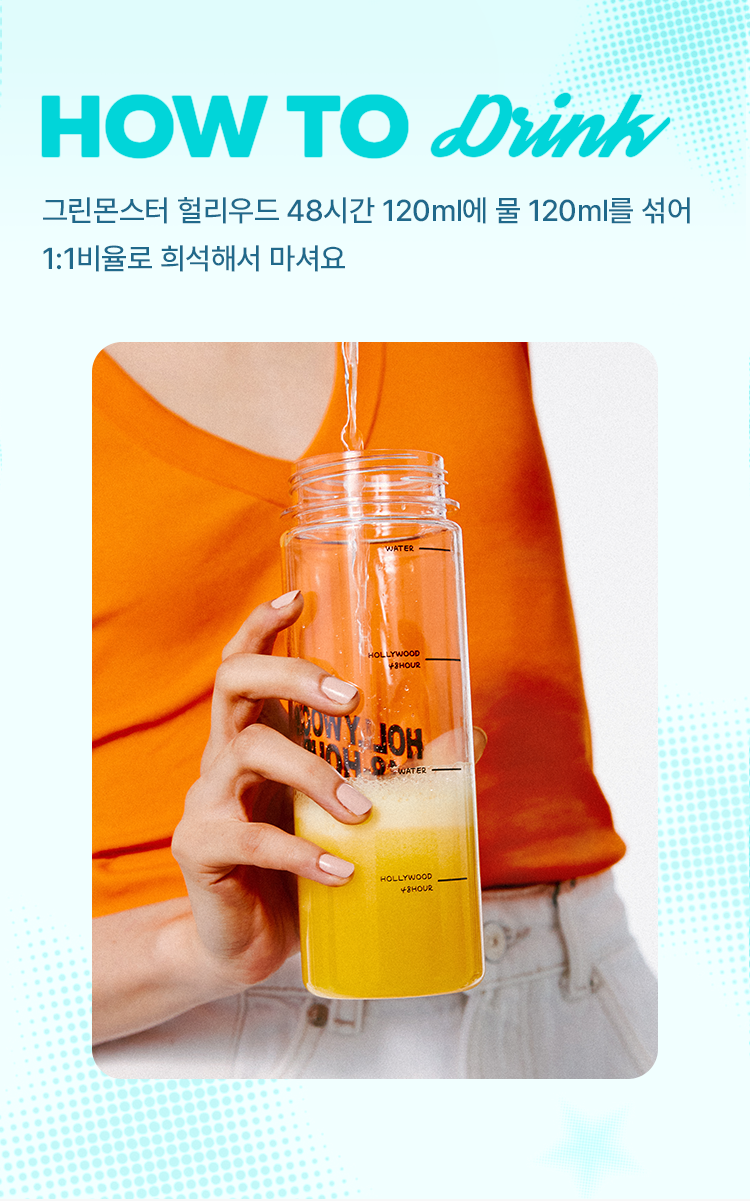
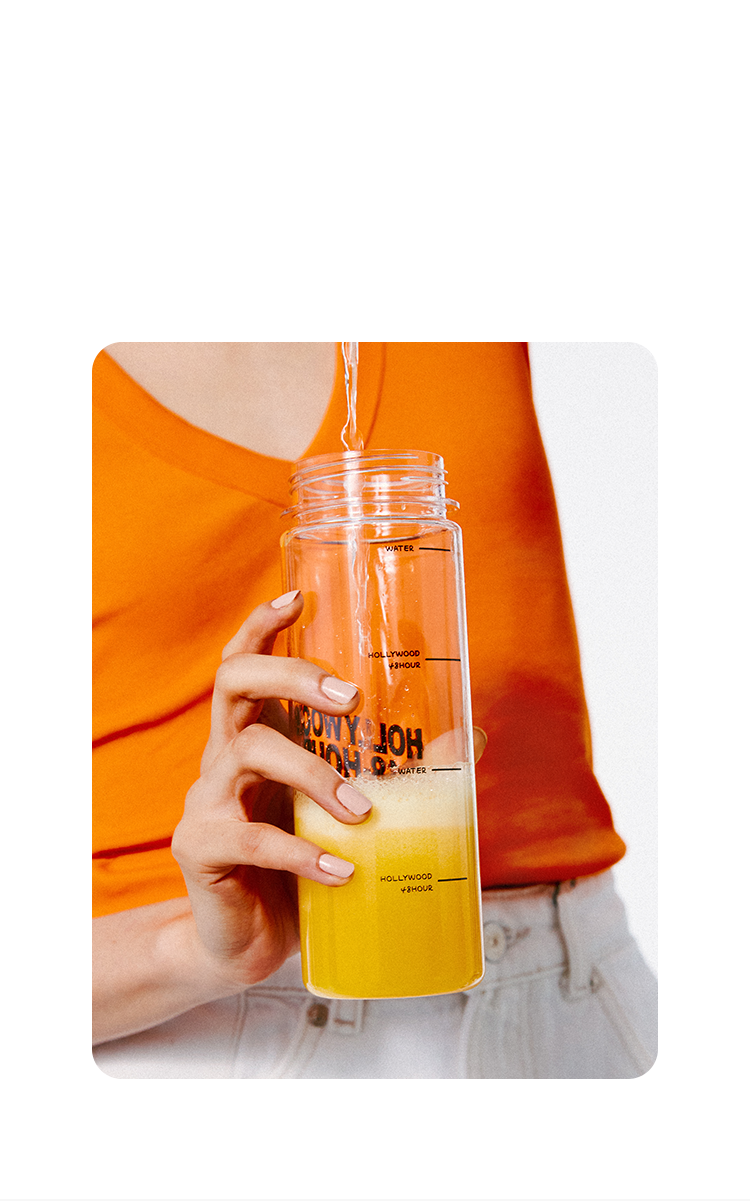
mo_17: restore base bg + rise-fade with delay; mo_18: precise glass/badge positions+sizes matching original overlap; mo_19: revert to exact original crop; blur-scrub actually wired up and reaches sharp quickly

diff --git a/index.html b/index.html
@@ -30,7 +30,7 @@
   <img class="hero-panel" src="assets2/hero-panel.png" alt="GREEN MONSTER · HOLLYWOOD 48-HOUR" />
 
   <!-- 03 Summer Essential -->
-  <img src="assets2/r03.jpg" alt="" />
+  <img class="blur-scrub" src="assets2/r03.jpg" alt="" />
   <!-- 04 Benefit -->
   <img src="assets2/r04.jpg" alt="" />
   <!-- 05 Chapter 01 title -->
@@ -94,34 +94,35 @@
   <!-- 16 가격 -->
   <img src="assets2/r16.jpg" alt="" />
 
-  <!-- 17 페이드인아웃 (How to Drink) -->
-  <div class="fade2">
-    <img src="assets2/r17-a.jpg" alt="" />
-    <img src="assets2/r17-b.png" alt="" />
+  <!-- 17 기본 배경 위에 스크롤 시 아래→위로 등장 후 페이드인아웃 (How to Drink) -->
+  <div class="rise-fade">
+    <img class="rf-base" src="assets2/r17-base.jpg" alt="" />
+    <img class="rf-a" src="assets2/r17-a.png" alt="" />
+    <img class="rf-b" src="assets2/r17-b.png" alt="" />
   </div>
 
   <!-- 18 Light/Basic 스케줄 : 주스 아이콘 12개가 순서대로 하나씩 나타남(무한반복) -->
   <div class="glass-wrap">
     <img src="assets2/r18.jpg" alt="" />
-    <img class="glass-icon glass-icon-0" style="left:15.53%;top:36.66%;width:6.53%;" src="assets2/glass.png" alt="" />
-    <img class="glass-icon glass-icon-1" style="left:33.4%;top:36.66%;width:6.53%;" src="assets2/glass.png" alt="" />
-    <img class="glass-icon glass-icon-2" style="left:51.13%;top:36.66%;width:6.53%;" src="assets2/glass.png" alt="" />
-    <img class="glass-icon glass-icon-3" style="left:69%;top:36.66%;width:6.53%;" src="assets2/glass.png" alt="" />
-    <img class="glass-icon glass-icon-4" style="left:15.53%;top:72.51%;width:6.53%;" src="assets2/glass.png" alt="" />
-    <img class="glass-icon glass-icon-5" style="left:33.4%;top:72.51%;width:6.53%;" src="assets2/glass.png" alt="" />
-    <img class="glass-icon glass-icon-6" style="left:51.13%;top:72.51%;width:6.53%;" src="assets2/glass.png" alt="" />
-    <img class="glass-icon glass-icon-7" style="left:69%;top:72.51%;width:6.53%;" src="assets2/glass.png" alt="" />
-    <img class="glass-icon glass-icon-8" style="left:15.53%;top:82.56%;width:6.53%;" src="assets2/glass.png" alt="" />
-    <img class="glass-icon glass-icon-9" style="left:33.4%;top:82.56%;width:6.53%;" src="assets2/glass.png" alt="" />
-    <img class="glass-icon glass-icon-10" style="left:51.13%;top:82.56%;width:6.53%;" src="assets2/glass.png" alt="" />
-    <img class="glass-icon glass-icon-11" style="left:69%;top:82.56%;width:6.53%;" src="assets2/glass.png" alt="" />
-    <img class="day-badge" style="left:76.4%;top:36.98%;width:12.27%;" src="assets2/badge-day1.png" alt="1일차" />
-    <img class="day-badge" style="left:76.4%;top:72.91%;width:12.27%;" src="assets2/badge-day1.png" alt="1일차" />
-    <img class="day-badge" style="left:76.4%;top:83.12%;width:12.27%;" src="assets2/badge-day2.png" alt="2일차" />
+    <img class="glass-icon glass-icon-0" style="left:15.333%;top:36.254%;width:6.933%;" src="assets2/glass.png" alt="" />
+    <img class="glass-icon glass-icon-1" style="left:33.2%;top:36.254%;width:6.933%;" src="assets2/glass.png" alt="" />
+    <img class="glass-icon glass-icon-2" style="left:50.933%;top:36.254%;width:6.933%;" src="assets2/glass.png" alt="" />
+    <img class="glass-icon glass-icon-3" style="left:68.8%;top:36.254%;width:6.933%;" src="assets2/glass.png" alt="" />
+    <img class="glass-icon glass-icon-4" style="left:15.333%;top:72.106%;width:6.933%;" src="assets2/glass.png" alt="" />
+    <img class="glass-icon glass-icon-5" style="left:33.2%;top:72.106%;width:6.933%;" src="assets2/glass.png" alt="" />
+    <img class="glass-icon glass-icon-6" style="left:50.933%;top:72.106%;width:6.933%;" src="assets2/glass.png" alt="" />
+    <img class="glass-icon glass-icon-7" style="left:68.8%;top:72.106%;width:6.933%;" src="assets2/glass.png" alt="" />
+    <img class="glass-icon glass-icon-8" style="left:15.333%;top:82.154%;width:6.933%;" src="assets2/glass.png" alt="" />
+    <img class="glass-icon glass-icon-9" style="left:33.2%;top:82.154%;width:6.933%;" src="assets2/glass.png" alt="" />
+    <img class="glass-icon glass-icon-10" style="left:50.933%;top:82.154%;width:6.933%;" src="assets2/glass.png" alt="" />
+    <img class="glass-icon glass-icon-11" style="left:68.8%;top:82.154%;width:6.933%;" src="assets2/glass.png" alt="" />
+    <img class="day-badge" style="left:73.067%;top:36.897%;width:16.667%;" src="assets2/badge-day1.png" alt="1일차" />
+    <img class="day-badge" style="left:73.067%;top:72.829%;width:16.667%;" src="assets2/badge-day1.png" alt="1일차" />
+    <img class="day-badge" style="left:73.067%;top:83.039%;width:16.667%;" src="assets2/badge-day2.png" alt="2일차" />
   </div>
 
-  <!-- 19 붓는 사진 : 스크롤하면 줌인 -->
-  <div class="scrub-zoom">
+  <!-- 19 붓는 사진 : 스크롤하면 줌인 + 블러→선명 -->
+  <div class="scrub-zoom blur-scrub">
     <img src="assets2/r19.jpg" alt="" />
   </div>
 

diff --git a/js/reveal.js b/js/reveal.js
@@ -1,7 +1,7 @@
-/* 스크롤 등장 모션(.reveal-txt): 뷰에 들어오면 .is-in 추가, 한 번만 재생 */
+/* 스크롤 등장 모션(.reveal-txt, .rise-fade): 뷰에 들어오면 .is-in 추가, 한 번만 재생 */
 (function () {
   var reduce = window.matchMedia && window.matchMedia('(prefers-reduced-motion: reduce)').matches;
-  var items = document.querySelectorAll('.reveal-txt');
+  var items = document.querySelectorAll('.reveal-txt, .rise-fade');
   if (!items.length) return;
 
   if (reduce || !('IntersectionObserver' in window)) {
@@ -12,8 +12,10 @@
   var io = new IntersectionObserver(function (entries) {
     entries.forEach(function (entry) {
       if (!entry.isIntersecting) return;
-      entry.target.classList.add('is-in');
-      io.unobserve(entry.target);
+      var el = entry.target;
+      var delay = el.classList.contains('rise-fade') ? 350 : 0;
+      setTimeout(function () { el.classList.add('is-in'); }, delay);
+      io.unobserve(el);
     });
   }, { threshold: 0.4, rootMargin: '0px 0px -10% 0px' });
 
@@ -31,7 +33,10 @@
   var slides = [].slice.call(document.querySelectorAll('.scrub-slide')).map(function (el) {
     return { el: el, track: el.querySelector('.scrub-slide__track') };
   });
-  if (!zooms.length && !slides.length) return;
+  var blurs = [].slice.call(document.querySelectorAll('.blur-scrub')).map(function (el) {
+    return { el: el };
+  });
+  if (!zooms.length && !slides.length && !blurs.length) return;
 
   function progressOf(el, totalOverride) {
     var rect = el.getBoundingClientRect();
@@ -42,21 +47,10 @@
   }
 
   var ZOOM_FROM = 1, ZOOM_TO = 1.22;
+  var MAX_BLUR = 18;
 
-  /* 20번: 이미지가 화면 정중앙에 오기 전까지는 0, 정중앙을 지나는 시점부터
-     자기 높이(SLIDE_DIST_RATIO 배)만큼 더 스크롤하는 동안 스와이프 진행 */
-  var SLIDE_DIST_RATIO = 0.6;
-
-  function slideProgress(el) {
-    var rect = el.getBoundingClientRect();
-    var vh = window.innerHeight;
-    var elCenter = rect.top + rect.height / 2;
-    var viewCenter = vh / 2;
-    var dist = rect.height * SLIDE_DIST_RATIO;
-    var p = (viewCenter - elCenter) / dist;
-    return Math.max(0, Math.min(1, p));
-  }
-
+  /* 20번: 화면에 보이기 시작(하단 진입)할 때 시작점(0%), 화면을 다 빠져나갈 때(상단 이탈) 끝점(100%)
+     — 보이는 동안 내내 천천히 진행되고, 시작/끝이 항상 화면 안에서 일어남 */
   function update() {
     zooms.forEach(function (z) {
       var p = progressOf(z.el);
@@ -64,8 +58,13 @@
       z.img.style.transform = 'scale(' + scale.toFixed(4) + ')';
     });
     slides.forEach(function (s) {
-      var p = slideProgress(s.el);
+      var p = progressOf(s.el);
       s.track.style.transform = 'translateX(' + (-50 * p).toFixed(2) + '%)';
+    });
+    blurs.forEach(function (b) {
+      var raw = progressOf(b.el);
+      var p = Math.min(1, raw / 0.35); // 화면에 들어오고 나서 얼마 안 가 바로 또렷해짐
+      b.el.style.filter = 'blur(' + (MAX_BLUR * (1 - p)).toFixed(2) + 'px)';
     });
   }
 

diff --git a/css/style.css b/css/style.css
@@ -106,6 +106,9 @@ img{ display:block; width:100%; }
 .scrub-slide__track{ display:flex; width:200%; will-change:transform; }
 .scrub-slide__track img{ width:50%; flex:none; display:block; }
 
+/* 03, 19: 스크롤할수록 블러 → 선명 */
+.blur-scrub{ filter:blur(18px); will-change:filter; }
+
 /* ---- 18: 주스 아이콘 12개가 없다가 순서대로 하나씩 나타남 (무한반복) ---- */
 .glass-wrap{ position:relative; width:100%; }
 .glass-icon{ position:absolute; display:block; opacity:0; transform:scale(.5); transform-origin:center bottom; }
@@ -211,6 +214,18 @@ img{ display:block; width:100%; }
 @keyframes fadeAB1{ 0%{ opacity:1; } 40%{ opacity:1; } 50%{ opacity:0; } 90%{ opacity:0; } 100%{ opacity:1; } }
 @keyframes fadeAB2{ 0%{ opacity:0; } 40%{ opacity:0; } 50%{ opacity:1; } 90%{ opacity:1; } 100%{ opacity:0; } }
 
+/* ---- 스크롤로 들어오면: 아래→위 등장(1회, 스무스) 후 두 이미지 페이드인아웃 반복 (js/reveal.js 가 .is-in 토글) ---- */
+.rise-fade{ position:relative; width:100%; overflow:hidden; }
+.rise-fade img{ width:100%; display:block; }
+.rise-fade .rf-base{ position:relative; }
+.rise-fade .rf-a,.rise-fade .rf-b{
+  position:absolute; inset:0; opacity:0; transform:translateY(100px);
+  transition:opacity 1.1s cubic-bezier(.16,.84,.34,1), transform 1.1s cubic-bezier(.16,.84,.34,1);
+}
+.rise-fade.is-in .rf-a,.rise-fade.is-in .rf-b{ transform:translateY(0); }
+.rise-fade.is-in .rf-a{ opacity:1; animation:fadeAB1 6s linear .9s infinite; }
+.rise-fade.is-in .rf-b{ animation:fadeAB2 6s linear .9s infinite; }
+
 @media (prefers-reduced-motion: reduce){
   .hero-swipe__track,.swipe__track{ animation:none !important; }
   .fade2 img{ animation:none !important; }
@@ -218,5 +233,9 @@ img{ display:block; width:100%; }
   .fade2 img:last-child{ opacity:0 !important; }
   .hero-swipe__title{ animation:none !important; opacity:1 !important; transform:none !important; }
   .reveal-txt{ transition:none !important; opacity:1 !important; transform:none !important; }
+  .rise-fade img{ transition:none !important; opacity:1 !important; transform:none !important; }
+  .rise-fade.is-in img:first-child,.rise-fade.is-in img:last-child{ animation:none !important; }
+  .rise-fade img:last-child{ opacity:0 !important; }
   .glass-icon{ animation:none !important; opacity:1 !important; transform:scale(1) !important; }
+  .blur-scrub{ filter:none !important; }
 }
